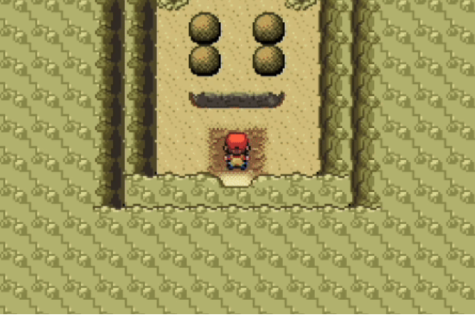
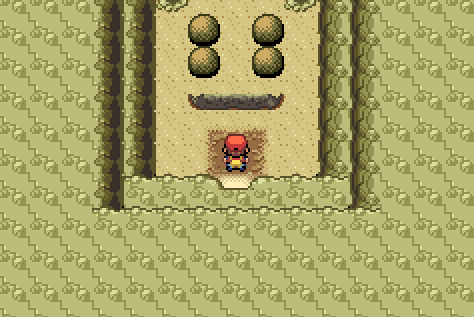
Fire red: Support Puzzle Solver mode for EU languages

diff --git a/wiki/pages/Mode - Puzzle Solver.md b/wiki/pages/Mode - Puzzle Solver.md
@@ -47,7 +47,13 @@ Solves the puzzle before encountering Deoxys on [Birth Island](https://bulbapedi
 
 ### Starting Location
 
+For `Ruby/Sapphire/Emerald`
+
 ![image](../images/puzzle_deoxys.png)
+
+For `Fire Red / Leaf Green`
+
+![image](../images/puzzle_deoxys_frlg.png)
 
 ## Regice
 
@@ -120,14 +126,26 @@ Start mode inside Tanoby Key.
 
 # Game Support
 
-|          | 🟥 Ruby | 🔷 Sapphire | 🟢 Emerald | 🔥 Fire Red | 🌿 Leaf Green |
-| :------- | :-----: | :---------: | :--------: | ----------- | ------------- |
-| English  |   ✅    |     ✅      |     ✅     | ✅          | ✅            |
-| Japanese |   ❌    |     ❌      |     ❌     | ❌          | ❌            |
-| German   |   ❌    |     ❌      |     ❌     | ❌          | ❌            |
-| Spanish  |   ❌    |     ❌      |     ❌     | ❌          | ❌            |
-| French   |   ❌    |     ❌      |     ❌     | ❌          | ❌            |
-| Italian  |   ❌    |     ❌      |     ❌     | ❌          | ❌            |
+| Puzzle         | Game         | English | Japanese | German | Spanish | French | Italian |
+|:---------------|:-------------|:-------:|:--------:|:------:|:-------:|:------:|:-------:|
+| **Sky Pillar** | 🟢 Emerald   |   ✅    |    ❌    |   ❌   |   ❌   |   ❌   |   ❌    |
+| **Mirage Tower**| 🟢 Emerald   |   ✅    |    ❌    |   ❌   |   ❌    |   ❌   |   ❌    |
+| **Deoxys**     | 🟥 Ruby      |   ✅    |    ❌    |   ❌   |   ❌    |   ❌   |   ❌    |
+|                | 🔷 Sapphire  |   ✅    |    ❌    |   ❌   |   ❌    |   ❌   |   ❌    |
+|                | 🟢 Emerald   |   ✅    |    ❌    |   ❌   |   ❌    |   ❌   |   ❌    |
+|                | 🔥 Fire Red  |   ✅    |    ❌    |   ✅   |   ✅   |   ✅   |   ✅    |
+|                | 🌿 LeafGreen |   ✅    |    ❌    |   ❌   |   ❌    |   ❌   |   ❌    |
+| **Regice**     | 🟥 Ruby      |   ✅    |    ❌    |   ❌   |   ❌    |   ❌   |   ❌    |
+|                | 🔷 Sapphire  |   ✅    |    ❌    |   ❌   |   ❌    |   ❌   |   ❌    |
+|                | 🟢 Emerald   |   ✅    |    ❌    |   ❌   |   ❌    |   ❌   |   ❌    |
+| **Regirock**   | 🟥 Ruby      |   ✅    |    ❌    |   ❌   |   ❌    |   ❌   |   ❌    |
+|                | 🔷 Sapphire  |   ✅    |    ❌    |   ❌   |   ❌    |   ❌   |   ❌    |
+|                | 🟢 Emerald   |   ✅    |    ❌    |   ❌   |   ❌    |   ❌   |   ❌    |
+| **Registeel**  | 🟥 Ruby      |   ✅    |    ❌    |   ❌   |   ❌    |   ❌   |   ❌    |
+|                | 🔷 Sapphire  |   ✅    |    ❌    |   ❌   |   ❌    |   ❌   |   ❌    |
+|                | 🟢 Emerald   |   ✅    |    ❌    |   ❌   |   ❌    |   ❌   |   ❌    |
+| **Tanoby Key** | 🔥 Fire Red  |   ✅    |    ❌    |   ✅   |   ✅    |   ✅   |   ✅    |
+|                | 🌿 LeafGreen |   ✅    |    ❌    |   ❌   |   ❌    |   ❌   |   ❌    |
 
 ✅ Tested, working
 

diff --git a/wiki/pages/Mode - Static Soft Resets.md b/wiki/pages/Mode - Static Soft Resets.md
@@ -46,10 +46,10 @@ Static soft reset mode targets static Pokémon by simply spamming the A button u
 |:---------|:-------:|:-----------:|:----------:|:----------:|:------------:|
 | English  |   🟨    |     🟨      |     ✅      |     ✅      |      ✅       |
 | Japanese |    ❌    |      ❌      |     ❌      |     ❌      |      ❌       |
-| German   |    ❌    |      ❌      |     ❌      |     ❌      |      ❌       |
-| Spanish  |    ❌    |      ❌      |     ❌      |     ❌      |      ❌       |
-| French   |    ❌    |      ❌      |     ❌      |     ❌      |      ❌       |
-| Italian  |    ❌    |      ❌      |     ❌      |     ❌      |      ❌       |
+| German   |    ❌    |      ❌      |     ❌      |     ✅      |      ❌       |
+| Spanish  |    ❌    |      ❌      |     ❌      |     ✅      |      ❌       |
+| French   |    ❌    |      ❌      |     ❌      |     ✅      |      ❌       |
+| Italian  |    ❌    |      ❌      |     ❌      |     ✅      |      ❌       |
 
 ✅ Tested, working
 
